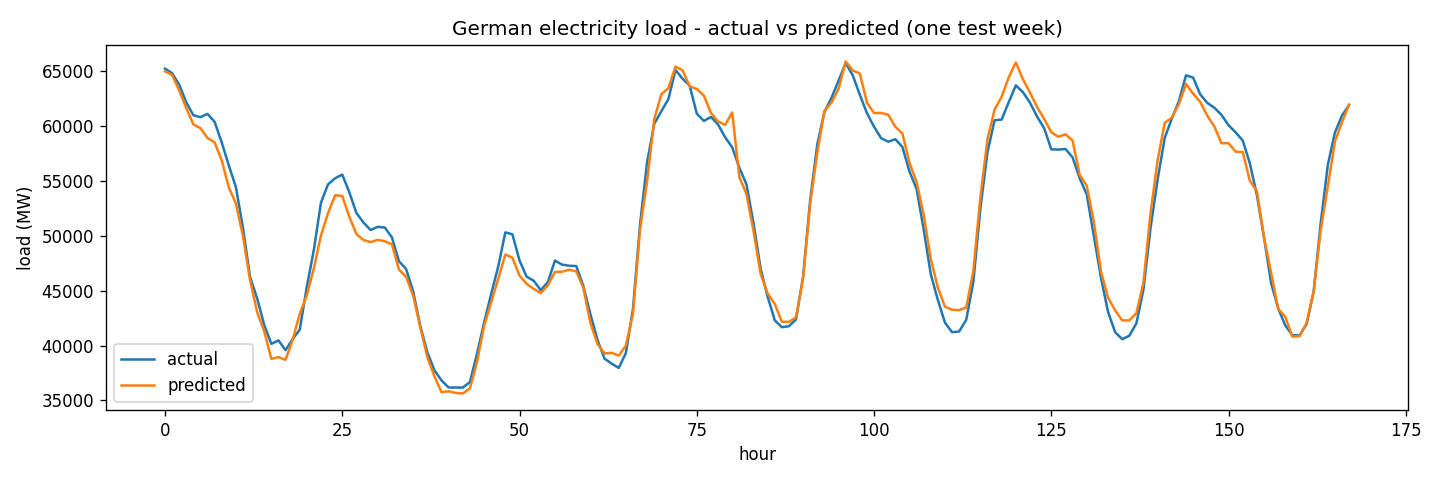
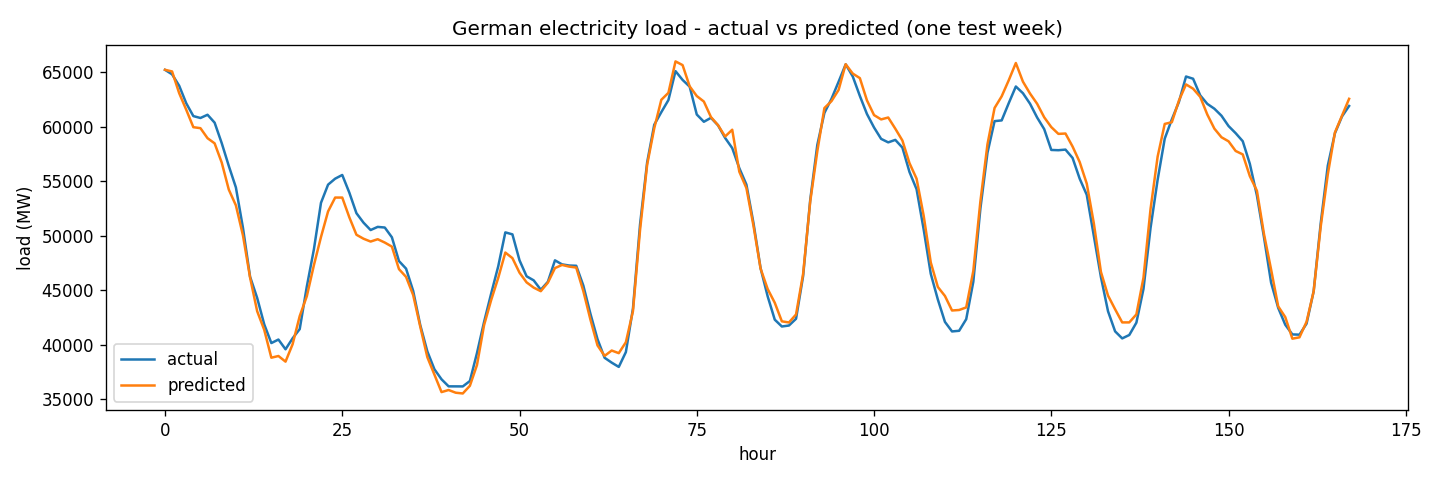
Add public-holiday feature and naive baseline comparison; update README

diff --git a/energy_model.py b/energy_model.py
@@ -9,6 +9,7 @@ Run:  python energy_model.py
 """
 
 import os
+import holidays
 import pandas as pd
 from matplotlib import pyplot as plt
 from sklearn.ensemble import HistGradientBoostingRegressor
@@ -16,7 +17,7 @@ from sklearn.metrics import mean_absolute_error, r2_score
 
 # ---- config ----
 HERE = os.path.dirname(os.path.abspath(__file__))
-CACHE = os.path.join(HERE, "de_load.csv")            # cached after the first download
+CACHE = os.path.join(HERE, "de_load.csv")          
 # Open Power System Data - hourly time series (free, no login). ~130 MB one-time download.
 OPSD_URL = ("https://data.open-power-system-data.org/time_series/2020-10-06/"
             "time_series_60min_singleindex.csv")
@@ -51,7 +52,7 @@ def load_data():
 def main():
     df = load_data()
 
-    # --- Exploratory analysis: demand has strong daily and seasonal rhythms ---
+    #  Exploratory analysis: demand has strong daily and seasonal rhythms
     df["hour"] = df["timestamp"].dt.hour            # 0-23
     df["dayofweek"] = df["timestamp"].dt.dayofweek  # 0 = Monday ... 6 = Sunday
     df["month"] = df["timestamp"].dt.month          # 1-12
@@ -60,20 +61,22 @@ def main():
     print("\nAverage load by month (MW):")
     print(df.groupby("month")["load_mw"].mean().round(0))
 
-    # --- Features ---
+    # Features
     # Time features plus the two most predictive signals in load forecasting:
     # the load 24 hours ago (same hour yesterday) and 168 hours ago (a week ago).
+    de_holidays = holidays.Germany(years=range(2015, 2021))
+    df["is_holiday"] = df["timestamp"].dt.date.map(lambda d: int(d in de_holidays))
     df["is_weekend"] = (df["dayofweek"] >= 5).astype(int)
     df["lag_24"] = df["load_mw"].shift(24)
     df["lag_168"] = df["load_mw"].shift(168)
     df = df.dropna()                                # drop early rows with no lag value
 
-    features = ["hour", "dayofweek", "month", "is_weekend", "lag_24", "lag_168"]
+    features = ["hour", "dayofweek", "month", "is_holiday", "is_weekend", "lag_24", "lag_168"]
     X = df[features]
     y = df["load_mw"]
     print("\nFeatures:", X.shape, "| target:", y.shape)
 
-    # --- Model + honest evaluation ---
+    # Model + honest evaluation
     # Split by TIME, not randomly: train on the earliest 80%, test on the most
     # recent 20%. Random shuffling would leak future data and inflate the score.
     n = int(len(df) * 0.8)
@@ -87,7 +90,11 @@ def main():
     print("\nMAE:", round(mean_absolute_error(y_test, pred), 0), "MW")
     print("R2 :", round(r2_score(y_test, pred), 3))
 
-    # --- Plot one test week: actual vs predicted ---
+    #  Baseline: naive forecast = same hour last week
+    baseline = X_test["lag_168"]     # naive forecast = same hour last week
+    print("\nBaseline (last week) MAE:", round(mean_absolute_error(y_test, baseline), 0), "MW")
+    print("Baseline (last week) R2 :", round(r2_score(y_test, baseline), 3))
+    # Plot one test week: actual vs predicted
     plt.figure(figsize=(12, 4))
     plt.plot(y_test.values[:168], label="actual")     # 168 hours = one week
     plt.plot(pred[:168], label="predicted")

diff --git a/README.md b/README.md
@@ -3,14 +3,17 @@
 I built a model that predicts **Germany's hourly electricity demand** from historical
 data. It loads six years of real load data, explores the daily and seasonal patterns,
 engineers time-based and lag features, and trains a gradient-boosting model — evaluated
-honestly with a time-based train/test split.
+with a time-based train/test split.
 
 ## Results
 
-| Metric | Value |
-|---|---|
-| R² (variance explained) | **0.951** |
-| Mean Absolute Error | **1,375 MW** (~2.5% of average load) |
+| Model | R² | MAE |
+|---|---|---|
+| **Gradient boosting (mine)** | **0.970** | **1,227 MW** (~2.2% of avg load) |
+| Naive baseline (same hour last week) | 0.844 | 2,273 MW |
+
+My model **cuts the error nearly in half** versus the naive baseline — confirming it adds
+real predictive value, not just luck.
 
 ![Actual vs predicted for one test week](forecast.png)
 
@@ -22,13 +25,16 @@ The model tracks the daily demand wave and the weekend dip closely.
    [Open Power System Data](https://open-power-system-data.org/) time series.
 2. **Exploration** — demand is lowest overnight (~44 GW) and peaks mid-morning (~64 GW),
    and is higher in winter than summer. These patterns guided the features.
-3. **Features** — hour, day of week, month, weekend flag, and two **lag features**:
-   the load 24 hours ago (same hour yesterday) and 168 hours ago (a week ago). Lags are
-   the strongest predictors, since demand repeats daily and weekly.
+3. **Features** — hour, day of week, month, weekend flag, **public-holiday flag**
+   (German holidays), and two **lag features**: the load 24 hours ago (same hour
+   yesterday) and 168 hours ago (a week ago). Lags are the strongest predictors, since
+   demand repeats daily and weekly.
 4. **Model** — `HistGradientBoostingRegressor` (scikit-learn).
 5. **Evaluation** — a **time-based split** (train on the earliest 80%, test on the most
    recent 20%). I avoided a random split on purpose: shuffling would let the model see
-   future data during training (data leakage) and overstate its accuracy.
+   future data during training (data leakage) and overstate its accuracy. I also compared
+   against a **naive baseline** (predict the same hour from last week) to prove the model
+   earns its keep.
 
 ## Run it
 
@@ -50,8 +56,8 @@ instant. It prints the metrics and saves `forecast.png`.
 
 ## Possible extensions
 
-Add weather (temperature drives heating/cooling demand) and public holidays, forecast
-further ahead than one hour, or compare against a naive "same hour last week" baseline.
+Add weather (temperature drives heating/cooling demand), or forecast further ahead than
+one hour (multi-step / recursive forecasting).
 
 ---
 *Tech: Python, pandas, scikit-learn, matplotlib.*
